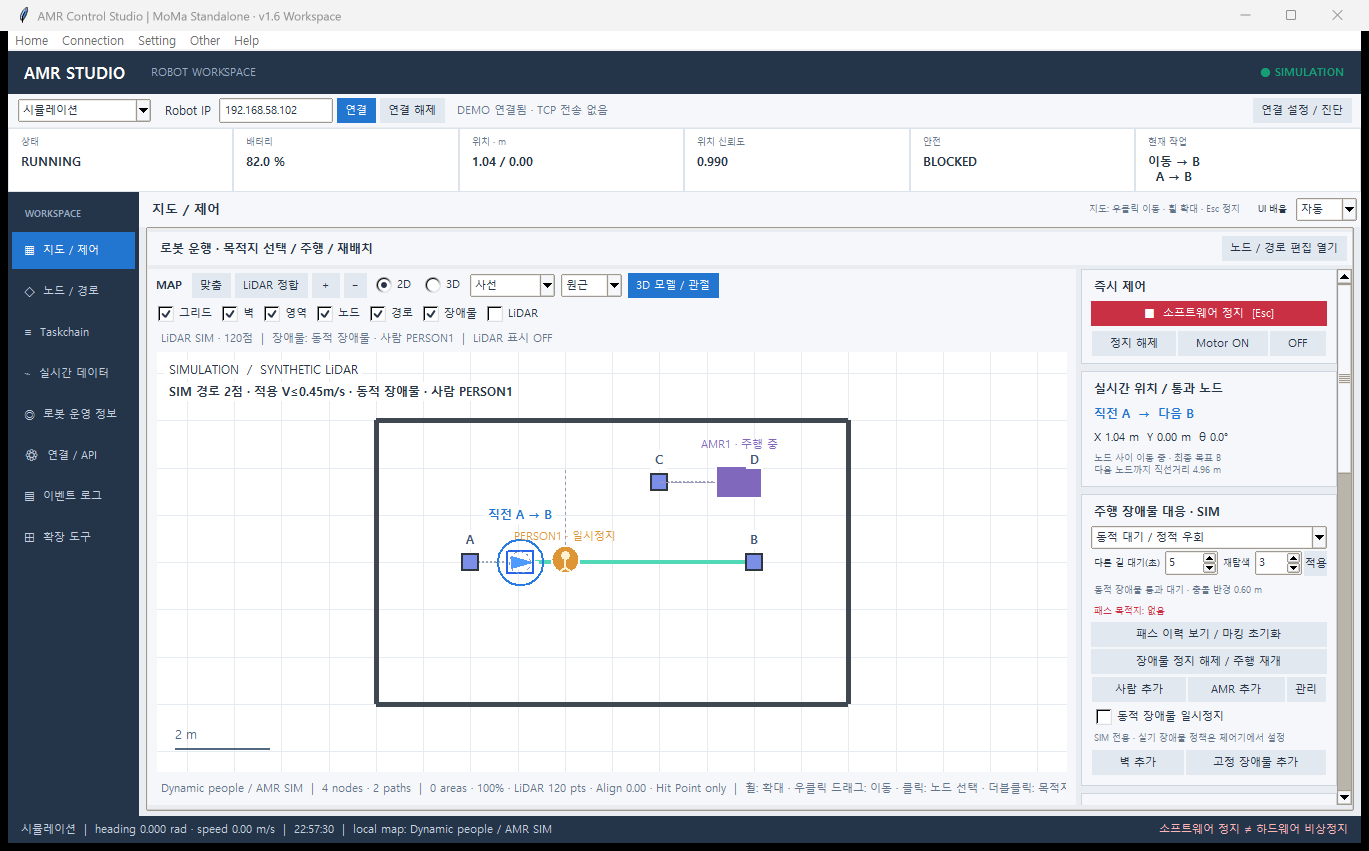
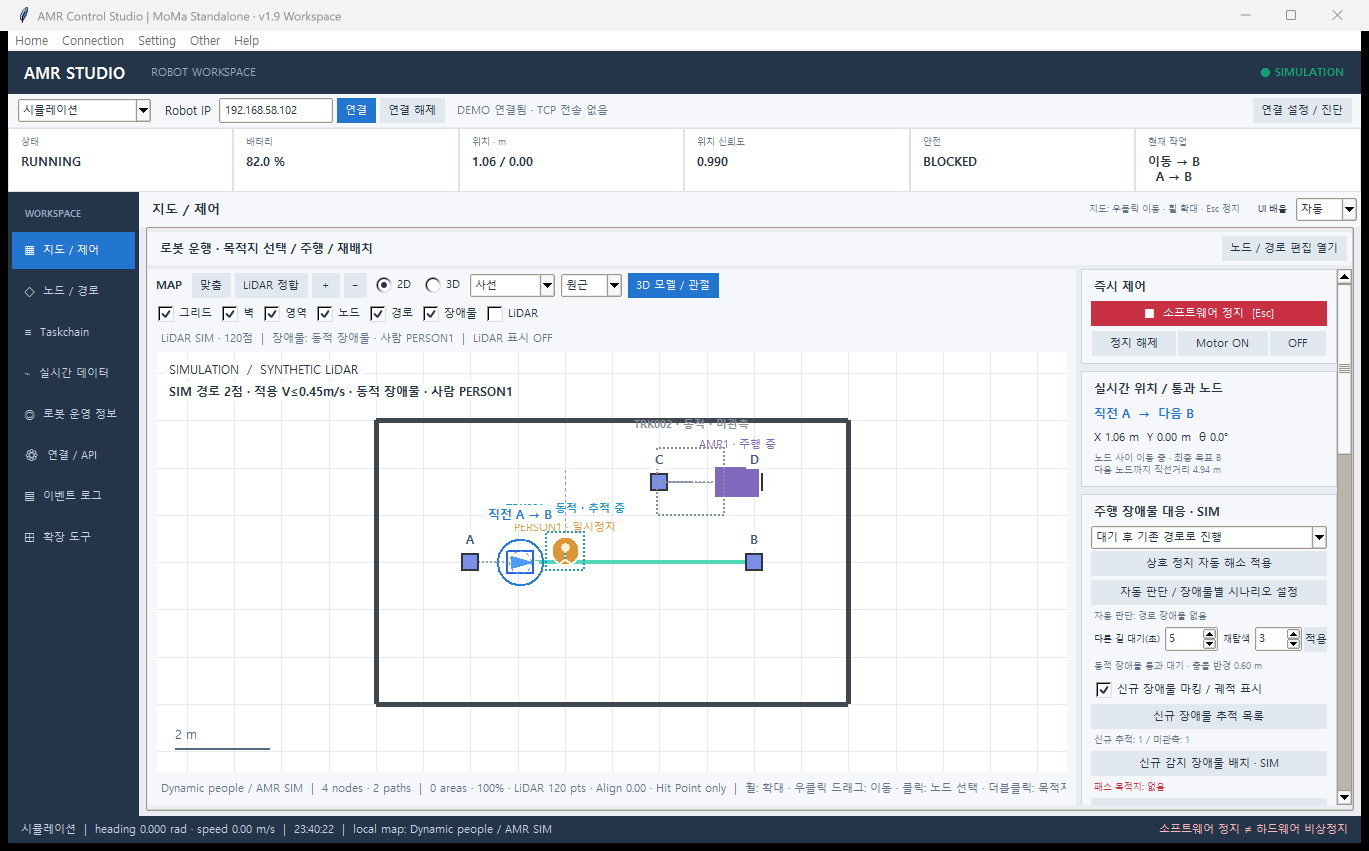
Resolve head-on AMR deadlocks with temporal reclassification and local-to-graph recovery

diff --git a/seer_control/model.py b/seer_control/model.py
@@ -197,7 +197,7 @@ class Simulator:
         if self.obstacle_policy in ('reroute','auto') and self._skipped_context:
             from .alternate_routes import alternate_route
             a,b,ref=self._skipped_context
-            next_plan=alternate_route(self.map,(s.x,s.y),goal,a,b,ref,max(self.collision_radius,self.map.robot_model['radius']),include_dynamic=self.obstacle_policy=='auto')
+            next_plan=alternate_route(self.map,(s.x,s.y),goal,a,b,ref,max(self.collision_radius,self.map.robot_model['radius']),include_dynamic=True)
         if self.mapping:
             raise ValueError('맵 생성 중에는 수동 탐색만 가능합니다.')
         start = self.map.nearest(s.x, s.y)
@@ -239,6 +239,28 @@ class Simulator:
         self._reroute_forced=False;self._skipped_context=None
         self._reroute_block_at=None;self._reroute_failures=0
         self.avoidance_status='다른 연결 경로 탐색 완료 · '+ ' → '.join(plan['nodes'])
+
+    def _try_local_detour(self,node,radius):
+        from .avoidance import detour,rejoin_detour
+        s=self.state
+        points=rejoin_detour(self.map,(s.x,s.y),getattr(self,'_reference_waypoints',[]),radius)
+        rejoined=bool(points)
+        if not points:points=detour(self.map,(s.x,s.y),(node['x'],node['y']),radius)
+        if not points and len(self.route)>1:
+            final=self.map.nodes[self.route[-1]]
+            points=detour(self.map,(s.x,s.y),(final['x'],final['y']),radius)
+            if points:self.route=[self.route[-1]];self._segment_start=None
+        if not points and not collision_reason(self.map,s.x,s.y,radius) and collision_reason(self.map,s.x,s.y,radius+.04):
+            # At a close standstill, relax only the extra planning buffer;
+            # preserve the full physical collision radius and swept checks.
+            points=rejoin_detour(self.map,(s.x,s.y),getattr(self,'_reference_waypoints',[]),radius,safety_margin=0)
+            rejoined=bool(points)
+            if not points:points=detour(self.map,(s.x,s.y),(node['x'],node['y']),radius,safety_margin=0)
+        if not points:return False
+        self._waypoints=points[1:];self._segment_reverse=False;self._velocity=0.
+        self.avoidance_status='우회 후 기존 경로 복귀' if rejoined else '우회 주행'
+        s.blocked=False;self._collision_blocked=False;self._reroute_block_at=None;self._reroute_failures=0
+        return True
 
     def skip_destination(self,reason):
         goal=self.state.target
@@ -454,6 +476,9 @@ class Simulator:
             if reason:
                 dynamic=reason.startswith('동적 장애물')
                 policy=self.obstacle_policy
+                if policy in ('adaptive','reroute'):
+                    _,classification,_,_=self.obstacle_tracker.blocker(self.map,(s.x,s.y),self._waypoints,limits['radius'],max(dec_dist,clearance+.05),reason)
+                    dynamic=classification!='static'
                 if policy=='auto':
                     from .obstacle_tracking import CLASSES,SCENARIOS
                     key,classification,speed,obstacle=self.obstacle_tracker.blocker(self.map,(s.x,s.y),self._waypoints,limits['radius'],max(dec_dist,clearance+.05),reason)
@@ -474,6 +499,12 @@ class Simulator:
                     # User-selected graph rerouting also applies to a moving blocker.
                     if policy=='reroute':dynamic=False
 
+                if policy=='recover':
+                    self._velocity=0.;s.blocked=True;self._collision_blocked=True;self.block_reason=reason
+                    if self._avoid_time<self._avoid_next:return
+                    self._avoid_next=self._avoid_time+1.
+                    if not self._reroute_forced and self._try_local_detour(n,limits['radius']):return
+                    policy='reroute';dynamic=False
                 if policy=='reroute' and not dynamic:
                     if self._reroute_block_at is None:self._reroute_block_at=self._avoid_time
                     elapsed=self._avoid_time-self._reroute_block_at
@@ -484,7 +515,7 @@ class Simulator:
                     if elapsed>=retry_wait:
                         from .alternate_routes import alternate_route
                         context=self._skipped_context or (self._segment_start,self.route[0],getattr(self,'_reference_waypoints',[]))
-                        plan=alternate_route(self.map,(s.x,s.y),s.target,*context,limits['radius'],include_dynamic=self.obstacle_policy=='auto')
+                        plan=alternate_route(self.map,(s.x,s.y),s.target,*context,limits['radius'],include_dynamic=True)
                         if plan:
                             s.blocked=False;self._collision_blocked=False;self._apply_alternate(plan)
                         else:
@@ -496,19 +527,8 @@ class Simulator:
                     self._velocity=0.;self.avoidance_status='장애물 정지 유지 · 수동 재개 필요';return
                 avoid=policy=='avoid' or policy=='adaptive' and not dynamic
                 if avoid and self._avoid_time>=self._avoid_next:
-                    from .avoidance import detour,rejoin_detour
                     self._avoid_next=self._avoid_time+1.
-                    points=rejoin_detour(self.map,(s.x,s.y),getattr(self,'_reference_waypoints',[]),limits['radius'])
-                    rejoined=bool(points)
-                    if not points:points=detour(self.map,(s.x,s.y),(n['x'],n['y']),limits['radius'])
-                    if not points and len(self.route)>1:
-                        final=self.map.nodes[self.route[-1]]
-                        points=detour(self.map,(s.x,s.y),(final['x'],final['y']),limits['radius'])
-                        if points:
-                            self.route=[self.route[-1]];self._segment_start=None
-                    if points:
-                        self._waypoints=points[1:];self._segment_reverse=False
-                        self.avoidance_status='우회 후 기존 경로 복귀' if rejoined else '우회 주행';self._velocity=0.;return
+                    if self._try_local_detour(n,limits['radius']):return
                     self.avoidance_status='우회 경로 없음 · 대기'
                 elif not avoid:self.avoidance_status='동적 장애물 통과 대기' if dynamic else '장애물 해제 대기'
                 desired=min(desired,math.sqrt(2*limits['maxdec']*max(0,clearance-stop_dist)))

diff --git a/tests/test_obstacle_deadlock.py b/tests/test_obstacle_deadlock.py
@@ -1,0 +1,33 @@
+import math,unittest
+from seer_control.model import MapModel,Simulator
+from seer_control.studio_core import collision_reason
+
+class DeadlockTests(unittest.TestCase):
+ def test_head_on_amrs_recover_without_overlap(self):
+  m=MapModel(dict(format='amr-console-map-v1',nodes=[dict(id='A',x=0,y=0),dict(id='B',x=8,y=0)],edges=[['A','B']],walls=[],obstacles=[dict(id='OTHER',dynamic=True,map_fixed=False,kind='amr',x=8,y=0,radius=.61,motion_nodes=['B','A'],motion_path=[[8,0],[0,0]],speed_mps=.5,dwell_s=0)]))
+  o=m.obstacles[0]
+  s=Simulator(m);s.collision_radius=.61;s.obstacle_policy='auto';s.auto_wait_s=.5;s.auto_static_s=.5;s.navigate('B');both_stopped=False;detoured=False
+  for _ in range(2000):
+   s.tick(.1);both_stopped|=s.state.blocked and o.get('_motion')=='通行待機'
+   both_stopped|=s.state.blocked and o.get('_motion')=='통행 대기'
+   detoured|=abs(s.state.y)>.5
+   self.assertGreater(math.dist((s.state.x,s.state.y),(o['x'],o['y'])),1.22-1e-6)
+   if s.state.last_node=='B':break
+  self.assertTrue(both_stopped);self.assertTrue(detoured);self.assertEqual(s.state.last_node,'B')
+ def test_explicit_wait_policy_stays_waiting(self):
+  m=MapModel(dict(format='amr-console-map-v1',nodes=[dict(id='A',x=0,y=0),dict(id='B',x=3,y=0)],edges=[['A','B']],walls=[],obstacles=[dict(id='P',dynamic=True,kind='person',x=1.5,y=0,radius=.3,motion_path=[[1.5,0],[1.5,2]],speed_mps=.5,paused=True)]))
+  s=Simulator(m);s.obstacle_policy='wait';s.navigate('B')
+  for _ in range(100):s.tick(.1)
+  self.assertTrue(s.state.blocked);self.assertAlmostEqual(s.state.y,0)
+
+ def test_local_failure_falls_back_to_connected_route(self):
+  from unittest.mock import Mock
+  m=MapModel(dict(format='amr-console-map-v1',nodes=[dict(id=k,x=x,y=y) for k,x,y in [('A',0,0),('B',3,0),('C',0,2),('D',3,2)]],edges=[['A','B'],['A','C'],['C','D'],['D','B']],walls=[],obstacles=[dict(x=1.5,y=0,radius=.3,map_fixed=False)]))
+  s=Simulator(m);s.obstacle_policy='auto';s.auto_static_s=.5;s.auto_wait_s=.5;s._try_local_detour=Mock(return_value=False);s.navigate('B');upper=False
+  for _ in range(1000):s.tick(.1);upper|=s.state.y>1.5
+  self.assertTrue(s._try_local_detour.called);self.assertTrue(upper);self.assertEqual(s.state.last_node,'B')
+ def test_all_recovery_routes_fail_marks_goal(self):
+  m=MapModel(dict(format='amr-console-map-v1',nodes=[dict(id='A',x=0,y=0),dict(id='B',x=3,y=0)],edges=[['A','B']],walls=[],obstacles=[dict(x=3,y=0,radius=.3,map_fixed=False)]))
+  s=Simulator(m);s.obstacle_policy='auto';s.auto_static_s=.5;s.auto_wait_s=.5;s.reroute_wait_s=.5;s.reroute_attempt_limit=2;s.navigate('B')
+  for _ in range(200):s.tick(.1)
+  self.assertIn('B',s.skipped_goals);self.assertNotEqual(s.state.last_node,'B')

diff --git a/tools/obstacle_deadlock_smoke.py b/tools/obstacle_deadlock_smoke.py
@@ -1,0 +1,35 @@
+import sys,tempfile,math
+from pathlib import Path
+sys.path.insert(0,str(Path(__file__).resolve().parents[1]))
+import seer_control.app as am
+import seer_control.studio_ui as ui
+from seer_control.model import MapModel,Simulator
+from seer_control.dynamic_obstacles import POLICIES
+from window_capture import capture_window
+
+def widgets(w):
+ for c in w.winfo_children():
+  yield c
+  yield from widgets(c)
+with tempfile.TemporaryDirectory() as folder:
+ am.USER_DIR=Path(folder);ui.SETTINGS=Path(folder)/'settings.json';app=am.Console();errors=[]
+ app.report_callback_exception=lambda t,v,b:errors.append(str(v))
+ try:
+  app.pose_autosave.set(False);app.geometry('1366x720')
+  app.map=MapModel(dict(format='amr-console-map-v1',nodes=[dict(id=k,x=x,y=y) for k,x,y in [('A',0,0),('B',8,0),('BOUND1',0,-2),('BOUND2',8,2)]],edges=[['A','B']],walls=[],obstacles=[dict(id='OTHER',dynamic=True,map_fixed=False,kind='amr',x=8,y=0,radius=.61,motion_nodes=['B','A'],motion_path=[[8,0],[0,0]],speed_mps=.5,dwell_s=0)]));app.sim=Simulator(app.map);app.sim.collision_radius=.61;app.refresh_nodes()
+  app.sim_obstacle_policy.set(POLICIES['reroute']);app._sim_obstacle_change()
+  next(w for w in widgets(app) if w.winfo_class()=='Button' and w.cget('text')=='상호 정지 자동 해소 적용').invoke()
+  assert app.studio_config['sim_obstacle_policy']=='auto';assert app.sim.auto_scenarios['static']=='wait_recover'
+  app.studio_config.update(auto_static_s=.5,auto_wait_s=.5);app._auto_apply_settings();app.sim.navigate('B')
+  both=False;captured=False
+  for _ in range(2200):
+   app.sim.tick(.1);o=app.map.obstacles[0]
+   both|=app.sim.state.blocked and o.get('_motion')=='통행 대기'
+   assert math.dist((app.sim.state.x,app.sim.state.y),(o['x'],o['y']))>=app.sim.collision_radius+o['radius']-1e-6
+   if not captured and abs(app.sim.state.y)>.5:
+    app.draw_map();app.update();capture_window(app,Path('artifacts/head_on_amr_recovery.png'));captured=True
+   if app.sim.state.last_node=='B':break
+  assert both and captured and app.sim.state.last_node=='B'
+  assert not errors,errors
+  print('PASS: recovery preset saved, both AMRs stopped, local detour with no overlap, final B arrival')
+ finally:app.close()

diff --git a/seer_control/avoidance.py b/seer_control/avoidance.py
@@ -8,7 +8,7 @@ def clear_segment(model,a,b,radius):
     return not path_clearance(model,a,[b],radius,math.dist(a,b))[1]
 
 
-def rejoin_detour(model,start,reference,radius):
+def rejoin_detour(model,start,reference,radius,safety_margin=.04):
     """Bypass the first blocked interval, then retain the original polyline."""
     if len(reference)<2:return None
     # Project onto the original segment, and only consider points ahead of it.
@@ -24,21 +24,21 @@ def rejoin_detour(model,start,reference,radius):
         samples.extend((a[0]+(b[0]-a[0])*j/count,a[1]+(b[1]-a[1])*j/count) for j in range(1,count+1))
     blocked=False;attempts=0
     for i,p in enumerate(samples):
-        if collision_reason(model,*p,radius+.04):blocked=True;continue
+        if collision_reason(model,*p,radius+safety_margin):blocked=True;continue
         if not blocked:continue
         # Prefer the earliest safe point beyond the obstacle, not the final goal.
         following=samples[i:min(len(samples),i+4)]
-        if any(not clear_segment(model,a,b,radius+.04) for a,b in zip(following,following[1:])):continue
+        if any(not clear_segment(model,a,b,radius+safety_margin) for a,b in zip(following,following[1:])):continue
         attempts+=1
-        bypass=detour(model,start,p,radius,max_cells=8000)
+        bypass=detour(model,start,p,radius,max_cells=8000,safety_margin=safety_margin)
         if bypass:return bypass+samples[i+1:]
         if attempts>=6:break
     return None
 
 
-def detour(model,start,goal,radius,max_cells=24000):
+def detour(model,start,goal,radius,max_cells=24000,safety_margin=.04):
     """Return collision-checked world points; None means wait, never teleport."""
-    radius+=.04
+    radius+=max(0,safety_margin)
     if collision_reason(model,*start,radius) or collision_reason(model,*goal,radius):return None
     if clear_segment(model,start,goal,radius):return [start,goal]
     points=[start,goal]+[(n['x'],n['y']) for n in model.nodes.values()]

diff --git a/seer_control/obstacle_ui.py b/seer_control/obstacle_ui.py
@@ -14,6 +14,7 @@ class ObstacleUIMixin:
         self.sim_obstacle_policy=tk.StringVar(value=POLICIES['auto'])
         choice=ttk.Combobox(body,textvariable=self.sim_obstacle_policy,values=list(POLICIES.values()),state='readonly')
         choice.pack(fill='x');choice.bind('<<ComboboxSelected>>',lambda event:self._sim_obstacle_change())
+        self.button(body,'상호 정지 자동 해소 적용',lambda:self.guarded(self._deadlock_preset)).pack(fill='x',pady=2)
         self.button(body,'자동 판단 / 장애물별 시나리오 설정',self._auto_scenario_dialog).pack(fill='x',pady=2)
         self.auto_class_label=self.label(body,'자동 판단: 관측 대기',8,MUTED,anchor='w',justify='left',wraplength=270)
         self.auto_class_label.pack(fill='x')
@@ -53,6 +54,14 @@ class ObstacleUIMixin:
         self.actor_draft=None
         self.reroute_wait.set(str(self.studio_config.get('reroute_wait_s',5)))
         self.reroute_attempts.set(str(self.studio_config.get('reroute_attempts',3)))
+
+    def _deadlock_preset(self):
+        from .obstacle_tracking import DEFAULTS
+        self.sim_required()
+        self.studio_config.update(auto_scenarios=dict(DEFAULTS),sim_obstacle_policy='auto')
+        self.sim_obstacle_policy.set(POLICIES['auto']);self.sim.obstacle_policy='auto'
+        self.sim._auto_block=None;self.sim._avoid_next=0.
+        self._auto_apply_settings();self._studio_save_settings()
 
     def _tracking_history(self):
         from .obstacle_tracking import CLASSES

diff --git a/tests/test_alternate_routes.py b/tests/test_alternate_routes.py
@@ -53,11 +53,13 @@ class AlternateTests(unittest.TestCase):
         self.assertEqual(runner.status,'COMPLETED',runner.error);self.assertEqual(s.state.last_node,'E')
         self.assertEqual(runner.actions[0]['status'],'패스');self.assertEqual(runner.actions[1]['status'],'목적지 미도착으로 생략')
         self.assertEqual(runner.skipped[0]['goal'],'B');self.assertFalse(s.do[0]);self.assertEqual(s.arm['status'],'IDLE')
-    def test_dynamic_actor_waits_without_skip(self):
+    def test_stopped_actor_becomes_static_and_reroutes(self):
         m=scene([dict(id='P',dynamic=True,kind='person',x=1.5,y=0,radius=.3,motion_path=[[1.5,0],[1.5,2]],speed_mps=.5,paused=True)])
         s=robot(m);s.navigate('B')
         for _ in range(200):s.tick(.1)
-        self.assertTrue(s.state.blocked);self.assertFalse(s.skipped_goals)
+        self.assertEqual(m.obstacles[0]['_classification'],'static');self.assertFalse(s.skipped_goals)
+        for _ in range(800):s.tick(.1)
+        self.assertEqual(s.state.last_node,'B')
     def test_one_way_lane_cannot_be_backtracked(self):
         m=scene([dict(x=1.5,y=0,radius=.3)])
         m.path_records=[dict(a='A',b='B',raw=make_path_record(m.nodes['A'],m.nodes['B']),properties={}),

diff --git a/seer_control/obstacle_tracking.py b/seer_control/obstacle_tracking.py
@@ -5,8 +5,8 @@ from types import SimpleNamespace
 from .studio_core import path_clearance
 
 CLASSES={'dynamic':'동적','static':'정적','unknown':'판단 중'}
-SCENARIOS={'wait':'해제될 때까지 대기','stop':'정지 / 수동 재개','avoid':'주변 우회 후 기존 경로 복귀','reroute':'다른 연결 경로 / 불가 목적지 패스','wait_avoid':'설정 시간 대기 → 주변 우회','wait_reroute':'설정 시간 대기 → 다른 경로 / 패스'}
-DEFAULTS={'dynamic':'wait','static':'wait_reroute','unknown':'wait'}
+SCENARIOS={'wait_recover':'대기 → 주변 우회 → 다른 경로 / 패스','wait':'해제될 때까지 대기','stop':'정지 / 수동 재개','avoid':'주변 우회 후 기존 경로 복귀','reroute':'다른 연결 경로 / 불가 목적지 패스','wait_avoid':'설정 시간 대기 → 주변 우회','wait_reroute':'설정 시간 대기 → 다른 경로 / 패스'}
+DEFAULTS={'dynamic':'wait','static':'wait_recover','unknown':'wait'}
 
 class ObstacleTracker:
  def __init__(self):

diff --git a/tests/test_obstacle_tracking.py b/tests/test_obstacle_tracking.py
@@ -25,7 +25,7 @@ class TrackingTests(unittest.TestCase):
   obs=dict(x=1.5,y=0,radius=.3,map_fixed=False)
   if actor:obs.update(dynamic=True,kind='person',id='P',motion_path=[[1.5,0],[1.5,2]],paused=True,speed_mps=.5,dwell_s=0)
   m=MapModel(dict(format='amr-console-map-v1',nodes=[dict(id=k,x=x,y=y) for k,x,y in [('A',0,0),('B',3,0),('C',0,2),('D',3,2)]],edges=[['A','B'],['A','C'],['C','D'],['D','B']],walls=[],obstacles=[obs]))
-  s=Simulator(m);s.obstacle_policy='auto';s.auto_static_s=.5;s.auto_wait_s=.5;s.reroute_wait_s=.5;s.navigate('B');return s,obs
+  s=Simulator(m);s.obstacle_policy='auto';s.auto_scenarios['static']='wait_reroute';s.auto_static_s=.5;s.auto_wait_s=.5;s.reroute_wait_s=.5;s.navigate('B');return s,obs
  def test_auto_static_reroutes_on_graph(self):
   s,o=self.sim();upper=False
   for _ in range(800):s.tick(.1);upper|=s.state.y>1.5

diff --git a/tools/dynamic_obstacles_smoke.py b/tools/dynamic_obstacles_smoke.py
@@ -41,8 +41,9 @@ with tempfile.TemporaryDirectory() as folder:
                     choice.set(key);next(b for b in buttons(win) if b.cget('text')=='포인트 추가').invoke()
             next(b for b in buttons(win) if b.cget('text')=='저장 / 배치').invoke()
         assert len(model.obstacles)==2
-        app.sim_obstacle_policy.set(POLICIES['adaptive']);app._sim_obstacle_change()
-        assert app.studio_config['sim_obstacle_policy']=='adaptive'
+        app.sim_obstacle_policy.set(POLICIES['wait']);app._sim_obstacle_change()
+        assert app.studio_config['sim_obstacle_policy']=='wait'
+        app.studio_config['auto_static_s']=30;app.sim.auto_static_s=30
         actor=model.obstacles[0];actor['paused']=True
         app.sim.navigate('B')
         for _ in range(200):app.sim.tick(.1)

diff --git a/tests/test_dynamic_obstacles.py b/tests/test_dynamic_obstacles.py
@@ -54,7 +54,7 @@ class ActorTests(unittest.TestCase):
         for _ in range(30):s.tick(.1)
         self.assertGreater(s.scan()[0][0],2)
     def test_adaptive_waits_for_dynamic_then_keeps_original_path(self):
-        m=scene([actor(paused=True)]);s=Simulator(m);s.obstacle_policy='adaptive';s.navigate('B')
+        m=scene([actor(paused=True)]);s=Simulator(m);s.obstacle_policy='adaptive';s.auto_static_s=30;s.navigate('B')
         for _ in range(150):s.tick(.1)
         self.assertTrue(s.state.blocked);self.assertIn('동적',s.avoidance_status)
         m.obstacles[0]['paused']=False;m.obstacles[0]['dwell_s']=60

diff --git a/seer_control/app.py b/seer_control/app.py
@@ -54,7 +54,7 @@ def _shape_summary(value, depth=0):
 class Console(UIScaleMixin, GamepadMixin, SpatialMixin, StudioMixin, tk.Tk):
     def __init__(self):
         super().__init__()
-        self.title('AMR Control Studio | MoMa Standalone · v1.8 Workspace')
+        self.title('AMR Control Studio | MoMa Standalone · v1.9 Workspace')
         # Responsive startup size: fit the active monitor instead of assuming one fixed resolution.
         sw=self.winfo_screenwidth(); sh=self.winfo_screenheight()
         start_w=min(1600,int(sw*.94))

diff --git a/tools/package_release.py b/tools/package_release.py
@@ -18,7 +18,7 @@ def release_files():
 
 def main():
     target=ROOT.parent/'release';target.mkdir(exist_ok=True)
-    archive=target/'MOMA_AMR_Control_Studio_v1.8_2026-10-03_source.zip'
+    archive=target/'MOMA_AMR_Control_Studio_v1.9_2026-10-03_source.zip'
     with zipfile.ZipFile(archive,'w',compression=zipfile.ZIP_DEFLATED,compresslevel=9) as output:
         for path in release_files():
             info=zipfile.ZipInfo('MOMA/'+path.relative_to(ROOT).as_posix(),date_time=(2026,10,3,0,0,0))
